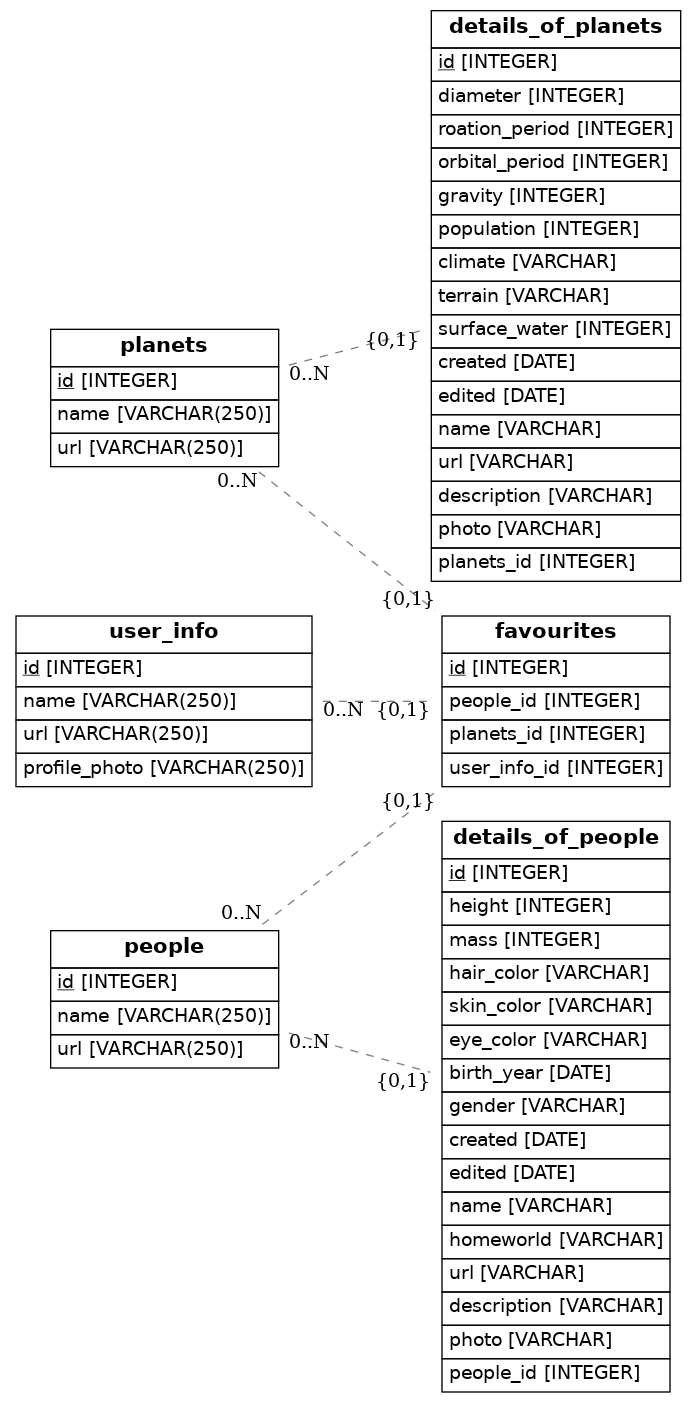
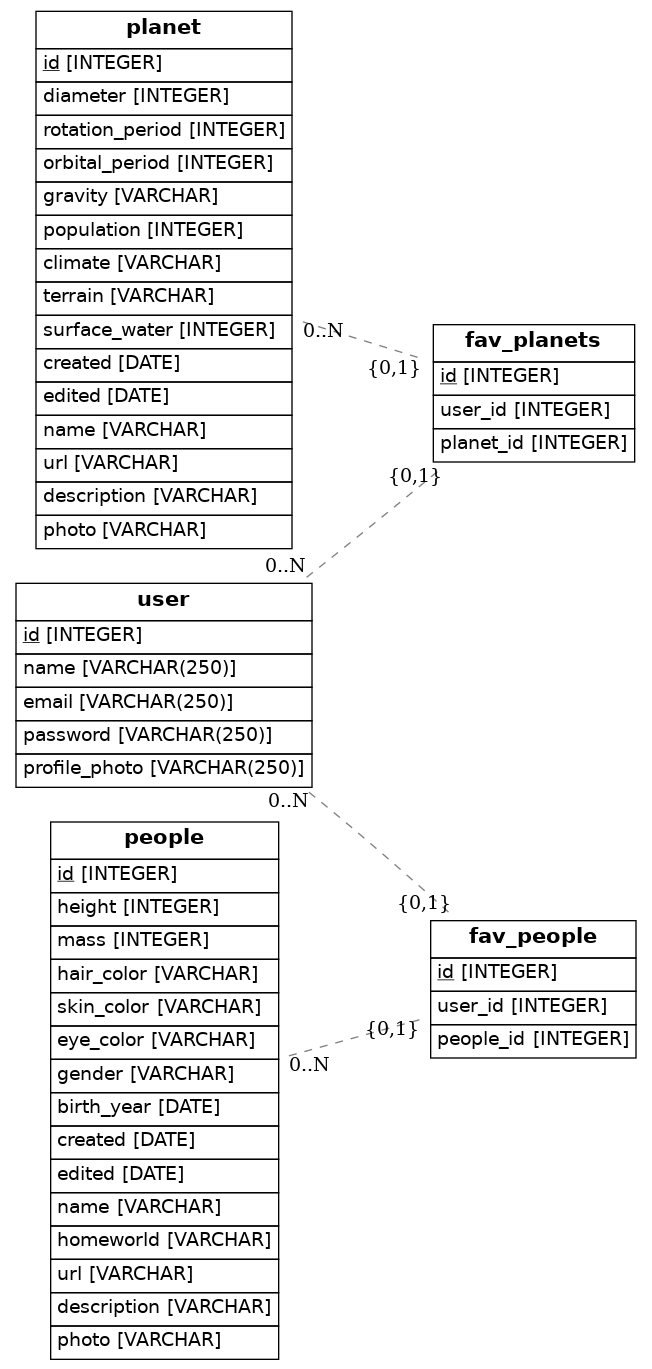
correción diagrama starwars

Changed region(s): [[0.0, 0.0, 0.9816, 1.0], [0.5521, 0.3988, 0.5828, 0.4295]]

diff --git a/src/models.py b/src/models.py
@@ -8,56 +8,80 @@ from eralchemy import render_er
 
 Base = declarative_base()
 
-class People(Base):
-    __tablename__ = 'people'
-    # Here we define columns for the table person
-    # Notice that each column is also a normal Python instance attribute.
-    id = Column(Integer, primary_key=True)
-    name = Column(String(250), nullable=False)
-    url = Column(String(250), nullable=False)
+class Fav_Planets(Base):
+    __tablename__ = 'fav_planets'
 
-class Planets(Base):
-    __tablename__ = 'planets'
+    id = Column(Integer, primary_key=True)
+    user_id = Column(Integer, ForeignKey('user.id'), nullable=False)
+    planet_id = Column(Integer, ForeignKey('planet.id'), nullable=False)
+
+    def serialize(self):
+        return {
+            "id": self.id,
+            "user_id": self.user_id,
+            "planet_id": self.planet_id
+        }
+
+class Fav_People(Base):
+    __tablename__ = 'fav_people'
     # Here we define columns for the table address.
     # Notice that each column is also a normal Python instance attribute.
     id = Column(Integer, primary_key=True)
-    name= Column(String(250), nullable=False)
-    url = Column(String(250), nullable=False)
-    #post_code = Column(String(250), nullable=False)
-    #person_id = Column(Integer, ForeignKey('person.id'))
-    #person = relationship(Person)
-class Details_of_Planets(Base):
-    __tablename__ = 'details_of_planets'
-    # Here we define columns for the table address.
-    # Notice that each column is also a normal Python instance attribute.
+    user_id = Column(Integer, ForeignKey('user.id'), nullable=False)
+    people_id = Column(Integer, ForeignKey('people.id'), nullable=False)
+
+    def serialize(self):
+        return {
+            "id": self.id,
+            "user_id": self.user_id,
+            "people_id": self.people_id
+        }
+
+class Detail_of_Planet(Base):
+    __tablename__ = 'planet'
+    
     id = Column(Integer, primary_key=True)
-    name= Column(String(250), nullable=False)
-    url = Column(String(250), nullable=False)
     diameter = Column(Integer)
-    roation_period = Column(Integer)
-    orbital_period =  Column(Integer)
-    gravity = Column(Integer)
+    rotation_period = Column(Integer)
+    orbital_period = Column(Integer)
+    gravity = Column(String)
     population = Column(Integer)
     climate = Column(String)
     terrain = Column(String)
     surface_water = Column(Integer)
     created = Column(Date)
     edited = Column(Date)
-    name = Column(String)
+    name = Column(String) 
     url = Column(String)
     description = Column(String)
-    planets_id = Column(Integer)
-    photo= Column(String)
-    planets_id = Column(Integer, ForeignKey ('planets.id')) 
-    planets = relationship (Planets)
+    photo = Column(String)
+    liked_by_users = relationship("Planet_Fav", backref="planet")
+
+    def serialize(self):
+        return {
+            "id": self.id,
+            "diameter": self.diameter,
+            "rotation_period": self.rotation_period,
+            "orbital_period": self.orbital_period,
+            "gravity": self.gravity,
+            "population": self.population,
+            "climate": self.climate,
+            "terrain": self.terrain,
+            "surface_water": self.surface_water,
+            "created": self.created,
+            "edited": self.edited,
+            "name": self.name,
+            "url": self.url,
+            "description": self.description,
+            "photo": self.photo,
+        }
+
+
     
-class Details_of_People(Base):
-    __tablename__ = 'details_of_people'
-    # Here we define columns for the table address.
-    # Notice that each column is also a normal Python instance attribute.
+class Detail_of_People(Base):
+    __tablename__ = 'people'
+    
     id = Column(Integer, primary_key=True)
-    name= Column(String(250), nullable=False)
-    url = Column(String(250), nullable=False)
     height = Column(Integer)
     mass = Column(Integer)
     hair_color = Column(String)
@@ -65,6 +89,7 @@ class Details_of_People(Base):
     eye_color = Column(String)
     birth_year = Column(Date)
     gender = Column(String)
+    birth_year = Column(Date)
     created = Column(Date)
     edited = Column(Date)
     name = Column(String)
@@ -72,38 +97,54 @@ class Details_of_People(Base):
     url = Column(String)
     description = Column(String)
     photo = Column(String)
-    people_id = Column(Integer, ForeignKey ('people.id')) 
-    people = relationship (People)
-    
+    liked_by_users = relationship("People_Fav", backref="people")
+
+    def serialize(self):
+        return {
+            "id": self.id,
+            "height": self.height,
+            "mass": self.mass,
+            "hair_color": self.hair_color,
+            "skin_color": self.skin_color,
+            "eye_color": self.eye_color,
+            "birth_year": self.birth_year,
+            "created": self.created,
+            "edited": self.edited,
+            "name": self.name,
+            "homeworld": self.homeworld,
+            "url": self.url,
+            "description": self.description,
+            "photo": self.photo
+        }
+
 class User_Info(Base):
-    __tablename__ = 'user_info'
-    # Here we define columns for the table address.
-    # Notice that each column is also a normal Python instance attribute.
-    id = Column(Integer, primary_key=True)
-    name= Column(String(250), nullable=False)
-    url = Column(String(250), nullable=False)
-    profile_photo = Column(String(250))
-class Favourites(Base):
-    __tablename__ = 'favourites'
-    # Here we define columns for the table address.
-    # Notice that each column is also a normal Python instance attribute.
-    id = Column(Integer, primary_key=True)
-    people_id = Column(Integer, ForeignKey ('people.id')) 
-    people = relationship (People)
-    planets_id = Column(Integer, ForeignKey ('planets.id')) 
-    planets = relationship (Planets)
-    user_info_id = Column(Integer, ForeignKey ('user_info.id')) 
-    user_info = relationship (User_Info)
+    __tablename__ = 'user'
     
-   # id_Planet = Column(Integer, primary_key=True)
-   # id_People = Column(Integer(250), nullable=False)
-  #  user_id = Column(Integrer(250), nullable=False)
-   # name= Column(String(250), nullable=False)
-   # url = Column(String(250), nullable=False)
+    id = Column(Integer, primary_key=True)
+    name = Column(String(250), nullable=False)
+    email = Column(String(250), nullable=False, unique=True)
+    password = Column(String(250), nullable=False)
+    profile_photo = Column(String(250))
+    favourite_planets = relationship("Planet_Fav", backref="user")
+    favourite_people = relationship("People_Fav", backref="user")
 
+    def serialize(self):
+        return {
+            "id": self.id,
+            "name": self.name,
+            "email": self.email,
+            "profile_photo": self.profile_photo
+        }
 
-    def to_dict(self):
-        return {}
 
 ## Draw from SQLAlchemy base
 render_er(Base, 'diagram.png')
+    
+
+    #def __repr__(self):
+    #    return '<User_Info %r>' % self.username
+    #def to_dict(self):
+     ##   return {}
+
+## Draw from SQLAlchemy base
+#render_er(Base, 'diagram.png')
